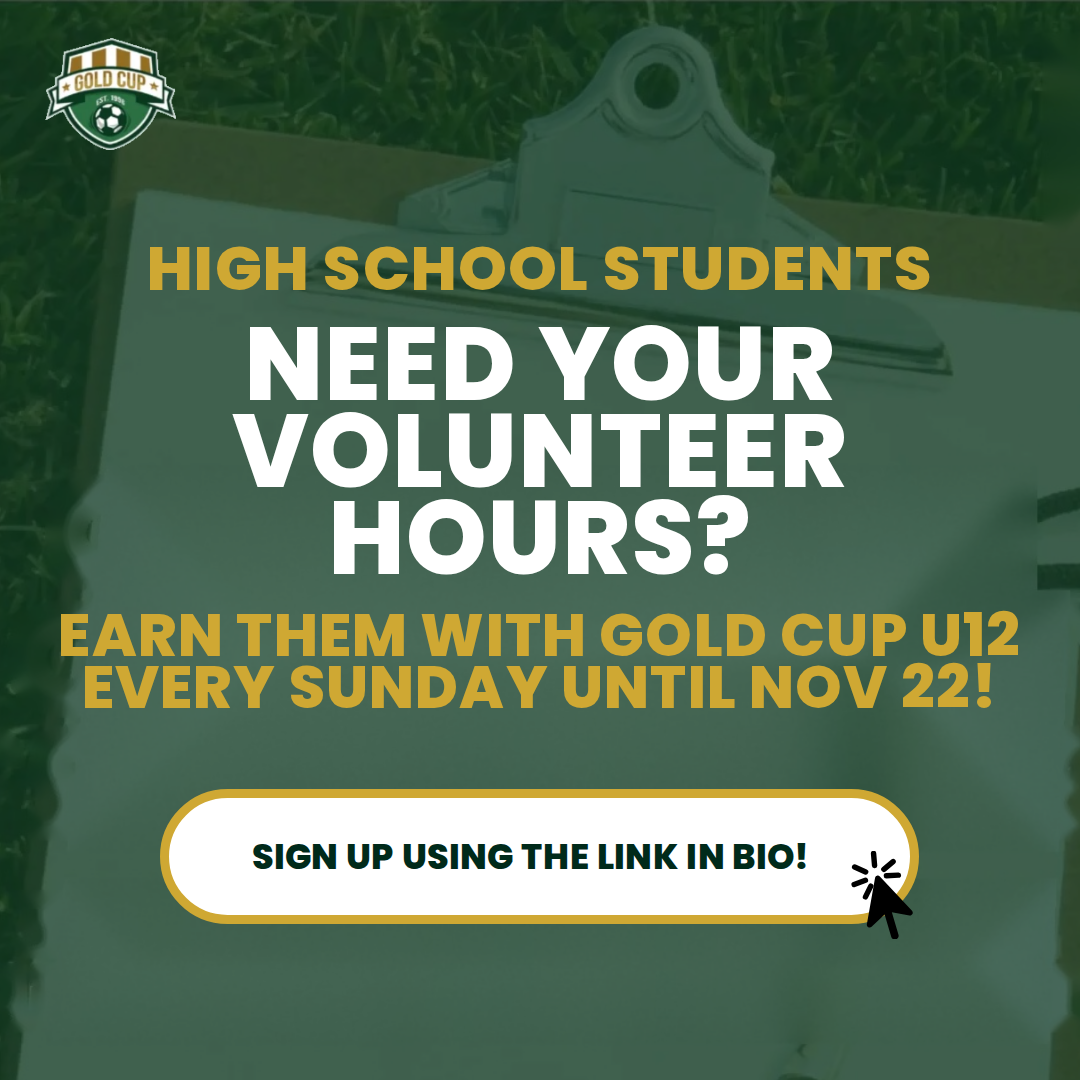
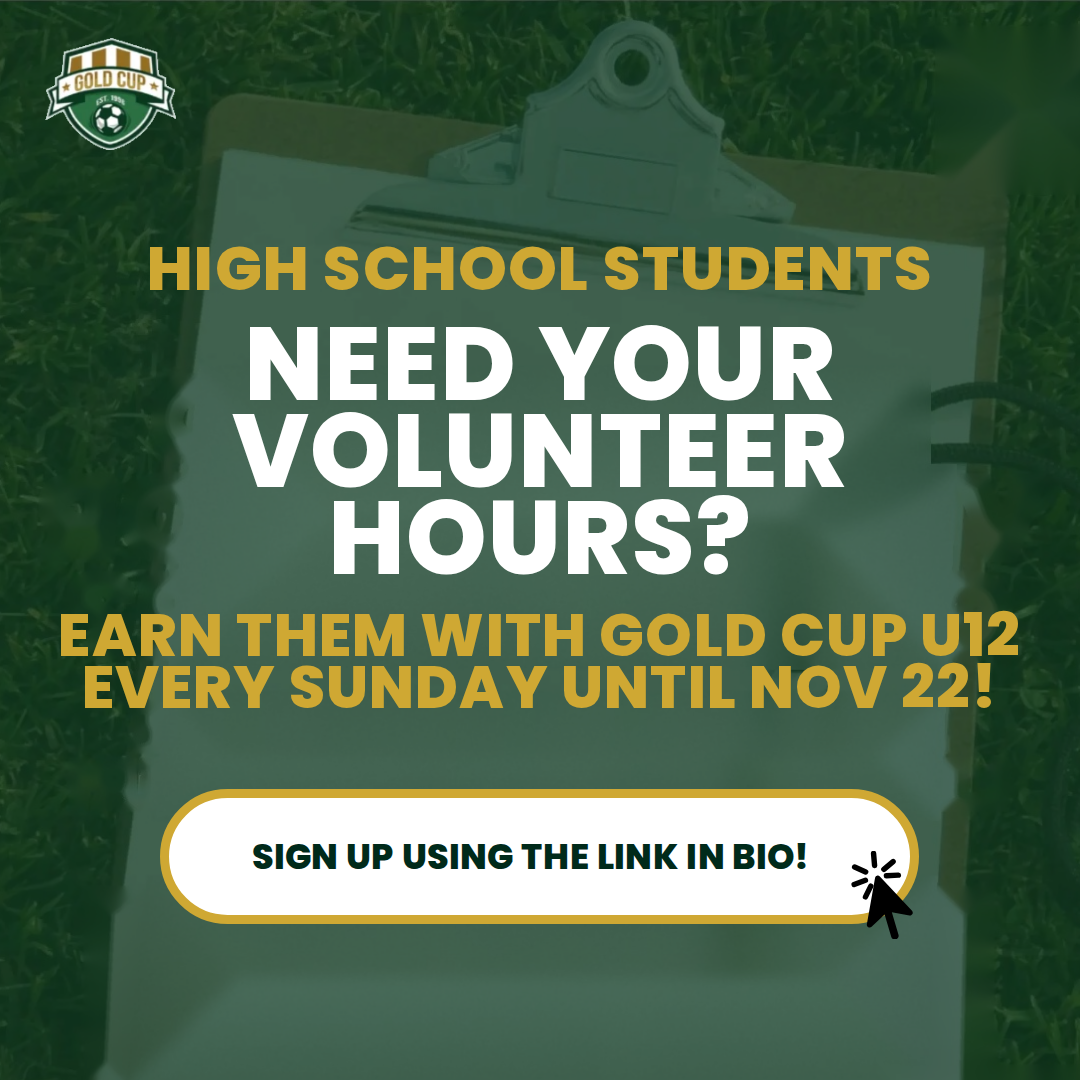
Warn when a background photo is too small for its crop
Upscaled photos render soft; the zoomed clipboard post was an example.
Also adds --scale for 2160px output.

Claude-Session: https://claude.ai/code/session_011NCyf21LWwMLcWSEt48o9K

diff --git a/gold-cup-graphics/template.html b/gold-cup-graphics/template.html
@@ -178,6 +178,13 @@ async function renderBackground(frame, post, warnings) {
   if (post.photoFlip) { fx = 100 - fx; bg.style.transform = 'scaleX(-1)'; }
   img.style.objectPosition = img.style.transformOrigin = `${fx}% ${fy}%`;
   img.style.transform = `scale(${post.photoZoom || 1})`;
+  if (img.naturalWidth) {
+    // pixels the photo must supply per output pixel; above 1 means it gets upscaled and looks soft
+    const upscale = Math.max(1080 / img.naturalWidth, 1080 / img.naturalHeight) * (post.photoZoom || 1) * devicePixelRatio;
+    if (upscale > 1.02)
+      warnings.push(`${post.photo} is ${img.naturalWidth}×${img.naturalHeight}, too small for this crop ` +
+        `(needs ${Math.ceil(upscale * Math.min(img.naturalWidth, img.naturalHeight))}px on its short side) — it will look soft`);
+  }
 }
 
 window.render = async function (post) {

diff --git a/gold-cup-graphics/README.md b/gold-cup-graphics/README.md
@@ -11,7 +11,9 @@ the calibration check: if a change to `template.html` makes them drift from the 
 1. Copy a file in `posts/` that has the layout you want, then edit the text.
 2. `npm install` (first time only), then `npm run render` — PNGs land in `out/`.
    Render one file with `node render.mjs posts/my-post.json`.
-3. Read the warnings it prints. "Shrunk to N%" means the copy is too long; shorten it rather than accept tiny text.
+   `node render.mjs --scale 2` renders at 2160×2160 instead (Instagram itself displays 1080×1080).
+3. Read the warnings it prints. A "too small for this crop" warning means the photo would be upscaled and look soft:
+   use a bigger photo or less `photoZoom`. "Shrunk to N%" means the copy is too long; shorten it rather than accept tiny text.
 
 ## Layouts
 
